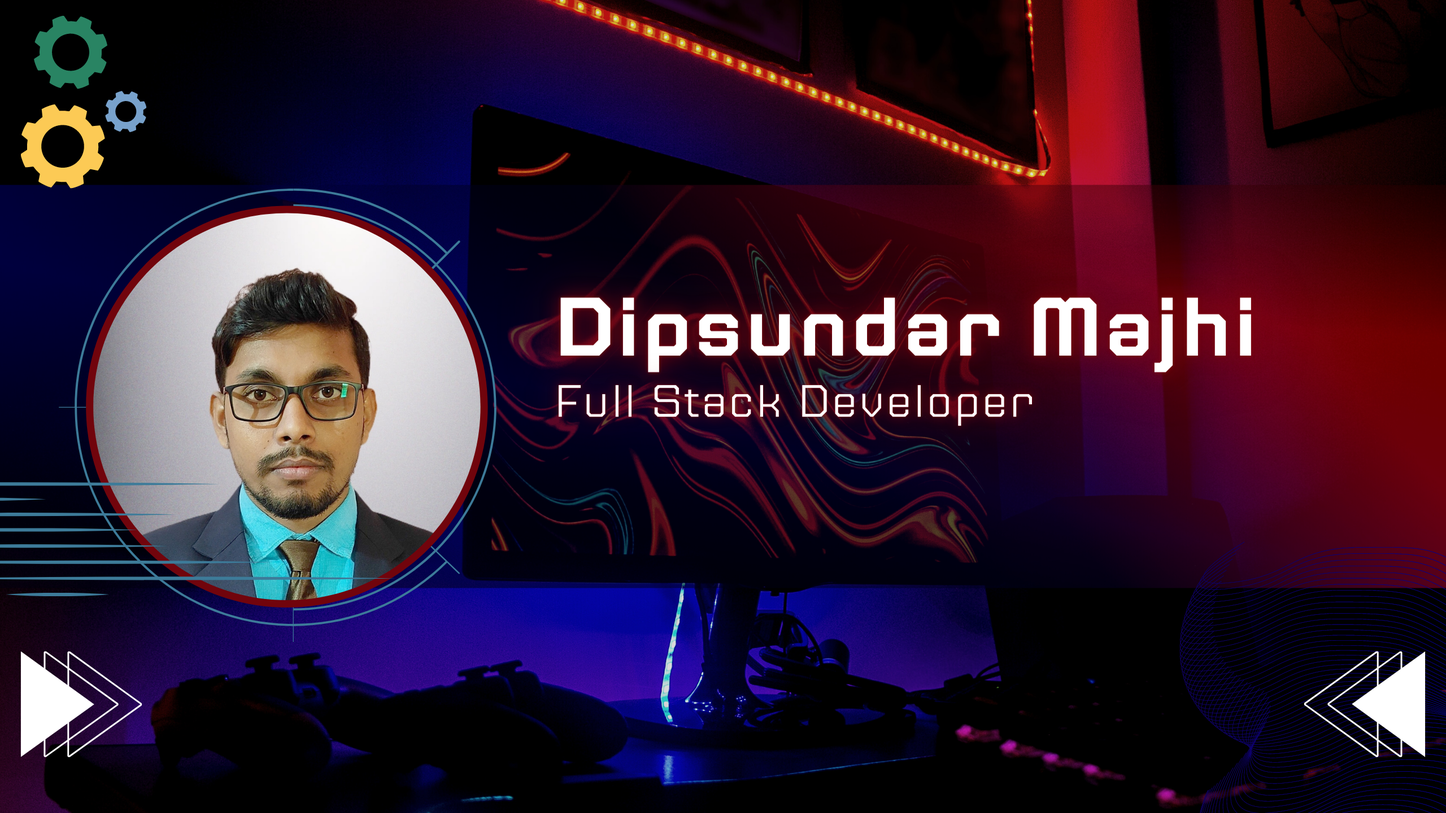
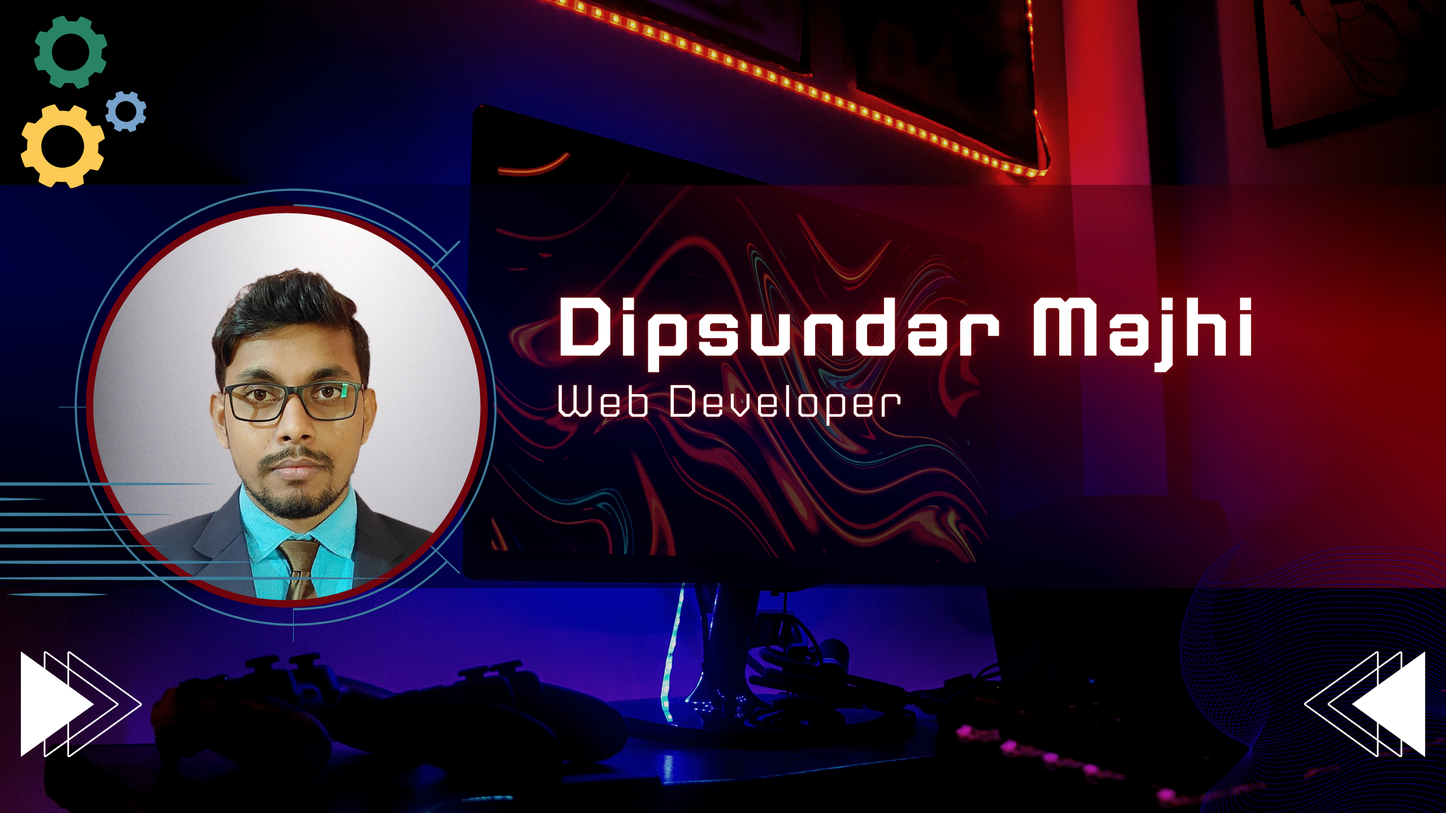
V1 - jan14 - 2024

Changed region(s): [[0.375, 0.4688, 0.7188, 0.5312]]

diff --git a/README.md b/README.md
@@ -1,12 +1,34 @@
 <!-- banner image starts here  -->
+
 <img src="./images/banner.png" width="100%"> <br>
-<!-- banner image ends here  -->  
 
+<!-- banner image ends here  -->
 
-<h1> 👋 Hello, I'm Dipsundar Majhi </h1>
+# 👋 Hello, I'm Dipsundar Majhi
 
+---
 
-👨💻  A Full Stack Web Developer  💻
+> 👨💻 **A Web Developer** 💻
 
-🏠 &nbsp; Bankura, West Bengal, India  
-🏠 &nbsp; Living: Kolkata, West Bengal, India
+### 🏠 &nbsp; Bankura, West Bengal, India
+
+## Skills:
+
+- Html
+- Css
+- Javascript
+- ES6
+- Bootstrap
+
+## Tools:
+
+- Visula Studio Code
+- Git
+- Chrome Dev Tools
+
+## Contact:
+
+Email id: **dipsundarmajhi@gmail.com**  
+WhatsApp: _+917602061928_
+
+---
